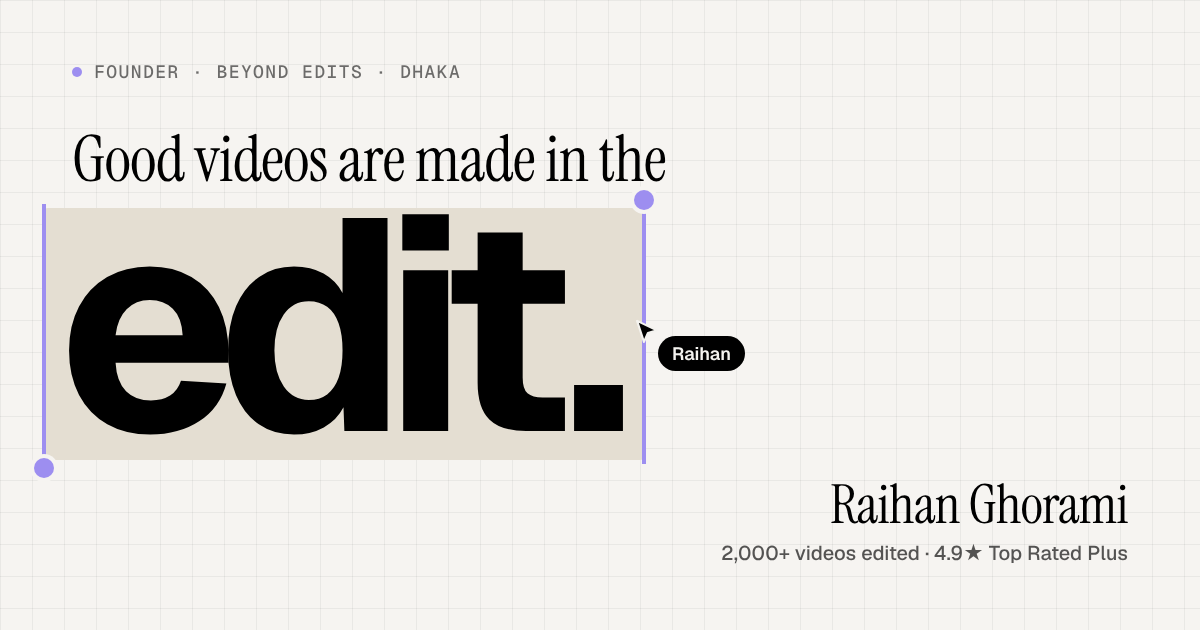
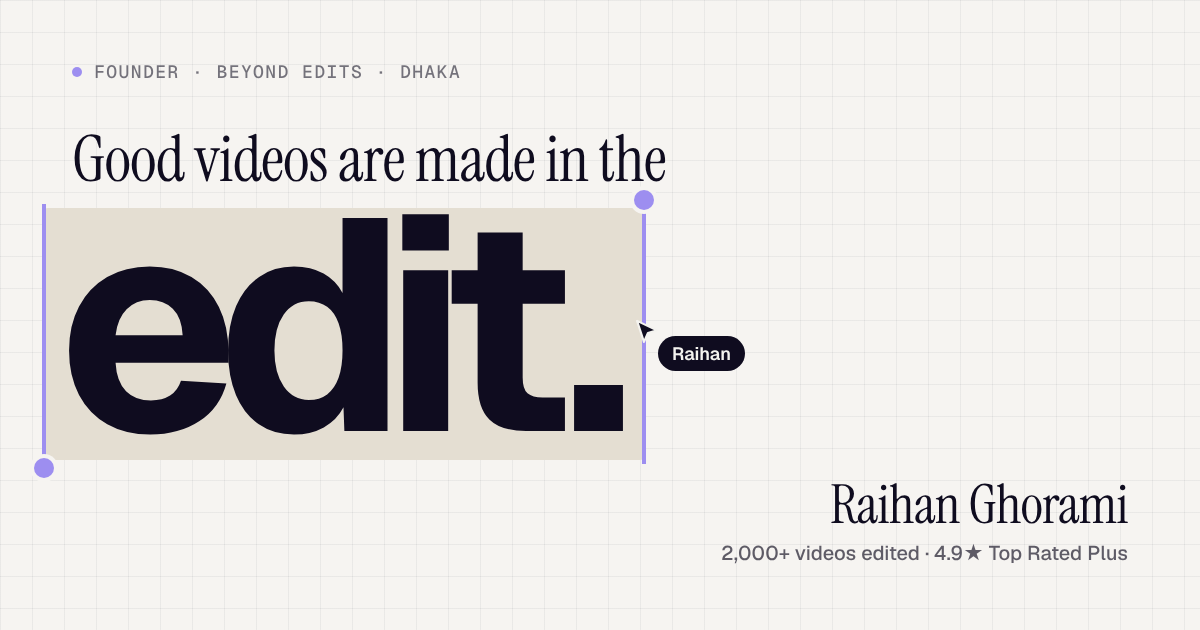
Replace pure black with Beyond Edits ink #0F0C1F
Light theme text, buttons and the Process band use the ink; dark theme sits on it,
with indigo-tinted surfaces, band and selection. Shadows, theme colour and share
image follow. Gradient masks keep #000 since they only set transparency.

Claude-Session: https://claude.ai/code/session_01RdWp2im6H8GFzkqyPQpJKF

diff --git a/raihanghorami/app/globals.css b/raihanghorami/app/globals.css
@@ -1,19 +1,19 @@
 /* ============ Tokens (light) ============ */
-/* Palette: Paper #F6F4F1, Stone #E4DED2, Black #000000, accent: Beyond Edits lilac #C8BEFA */
+/* Palette: Paper #F6F4F1, Stone #E4DED2, Ink #0F0C1F (in place of black), accent: Beyond Edits lilac #C8BEFA */
 :root {
   --bg: #f6f4f1;
   --surface: #fbfaf8;
   --glass: rgba(251, 250, 248, 0.84);
-  --ink: #000000;
-  --ink-hover: #2b2a28;
-  --ink-2: rgba(0, 0, 0, 0.66);
-  --ink-3: rgba(0, 0, 0, 0.56);
-  --line: rgba(0, 0, 0, 0.1);
-  --line-2: rgba(0, 0, 0, 0.16);
-  --hover: rgba(0, 0, 0, 0.05);
-  --grid: rgba(0, 0, 0, 0.05);
-  --underline: rgba(0, 0, 0, 0.3);
-  --elev: 0 0 0 1px rgba(0, 0, 0, 0.07), 0 12px 32px -14px rgba(0, 0, 0, 0.2);
+  --ink: #0f0c1f;
+  --ink-hover: #2b2740;
+  --ink-2: rgba(15, 12, 31, 0.68);
+  --ink-3: rgba(15, 12, 31, 0.58);
+  --line: rgba(15, 12, 31, 0.1);
+  --line-2: rgba(15, 12, 31, 0.16);
+  --hover: rgba(15, 12, 31, 0.05);
+  --grid: rgba(15, 12, 31, 0.05);
+  --underline: rgba(15, 12, 31, 0.3);
+  --elev: 0 0 0 1px rgba(15, 12, 31, 0.07), 0 12px 32px -14px rgba(15, 12, 31, 0.22);
 
   /* design-tool overlay colours: lilac is the only accent.
      Fills use the brand lilac; thin lines get a deeper lilac so they hold up on paper. */
@@ -26,7 +26,7 @@
   --hl: var(--accent);
   --on-hl: #0f0c1f;
   --focus: var(--ink);
-  --band: #000000;
+  --band: #0f0c1f;
   --band-ink: #f6f4f1;
 
   --serif: 'Instrument Serif', 'Iowan Old Style', 'Times New Roman', serif;
@@ -43,9 +43,9 @@
 
 /* ============ Tokens (dark) ============ */
 :root[data-theme='dark'] {
-  --bg: #000000;
-  --surface: #121110;
-  --glass: rgba(18, 17, 16, 0.78);
+  --bg: #0f0c1f;
+  --surface: #1a1630;
+  --glass: rgba(26, 22, 48, 0.78);
   --ink: #f6f4f1;
   --ink-hover: #ffffff;
   --ink-2: rgba(246, 244, 241, 0.7);
@@ -55,10 +55,10 @@
   --hover: rgba(246, 244, 241, 0.07);
   --grid: rgba(246, 244, 241, 0.05);
   --underline: rgba(246, 244, 241, 0.35);
-  --elev: 0 0 0 1px rgba(246, 244, 241, 0.1), 0 14px 36px -14px rgba(0, 0, 0, 0.8);
+  --elev: 0 0 0 1px rgba(246, 244, 241, 0.1), 0 14px 36px -14px rgba(5, 4, 12, 0.8);
 
-  --sel: #2b2723;
-  --band: #0f0e0d;
+  --sel: #2a2545;
+  --band: #161229;
   --accent-line: #c8befa;
 
   color-scheme: dark;
@@ -631,7 +631,7 @@ button {
   flex: none;
   fill: var(--ink);
   stroke: var(--bg);
-  filter: drop-shadow(0 2px 3px rgba(0, 0, 0, 0.22));
+  filter: drop-shadow(0 2px 3px rgba(15, 12, 31, 0.25));
 }
 
 .cursor b {
@@ -1132,7 +1132,7 @@ button {
   gap: 4px;
   padding: 4px;
   border-radius: 999px;
-  background: rgba(0, 0, 0, 0.55);
+  background: rgba(15, 12, 31, 0.6);
   backdrop-filter: blur(10px);
   -webkit-backdrop-filter: blur(10px);
   box-shadow: inset 0 0 0 1px rgba(255, 255, 255, 0.14);
@@ -1169,7 +1169,7 @@ button {
 
 .take-switch button[aria-selected='true'] {
   background: #f6f4f1;
-  color: #000000;
+  color: #0f0c1f;
 }
 
 /* ============ Beyond Edits touches ============ */
@@ -1194,7 +1194,7 @@ button {
   place-items: center;
   background: var(--ink);
   color: var(--bg);
-  box-shadow: 0 14px 30px -14px rgba(0, 0, 0, 0.6);
+  box-shadow: 0 14px 30px -14px rgba(15, 12, 31, 0.55);
   transition: transform 0.4s var(--ease);
 }
 

diff --git a/raihanghorami/app/layout.tsx b/raihanghorami/app/layout.tsx
@@ -34,7 +34,7 @@ export const metadata: Metadata = {
 export const viewport: Viewport = {
   themeColor: [
     { media: '(prefers-color-scheme: light)', color: '#f4f3ef' },
-    { media: '(prefers-color-scheme: dark)', color: '#141416' },
+    { media: '(prefers-color-scheme: dark)', color: '#0f0c1f' },
   ],
   colorScheme: 'light dark',
 };
